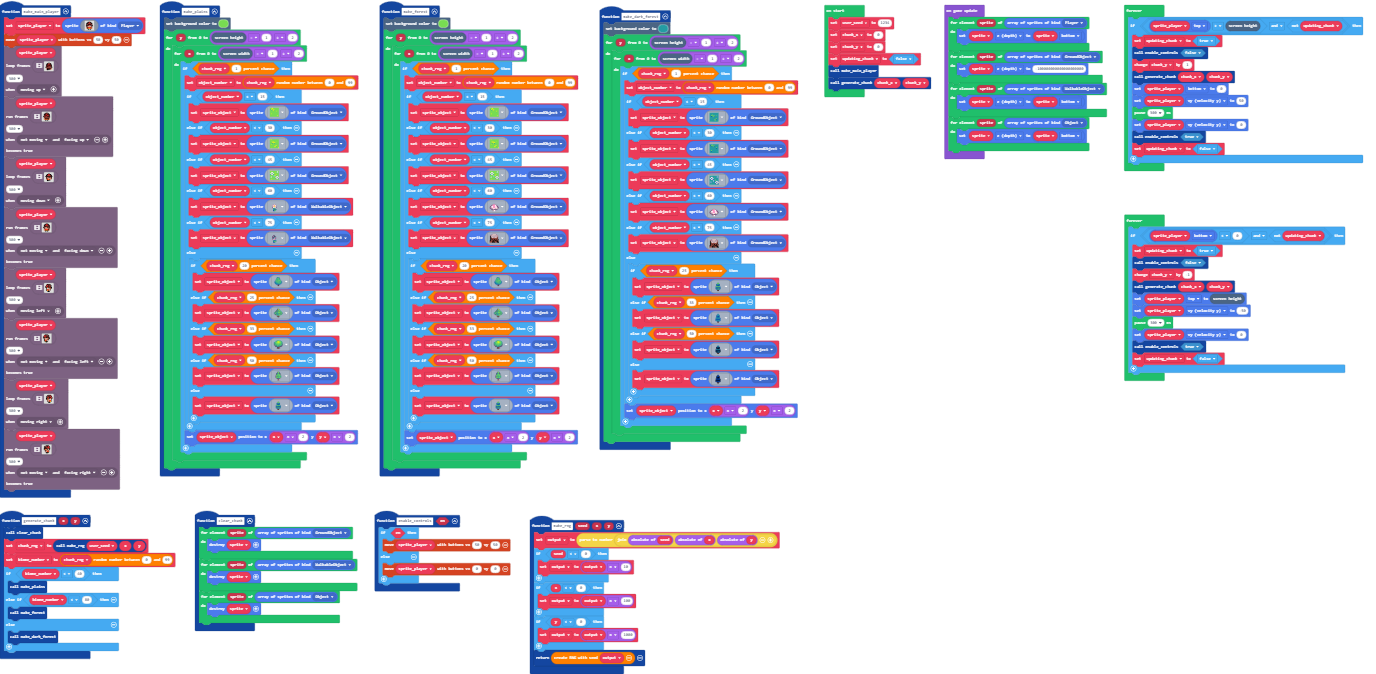
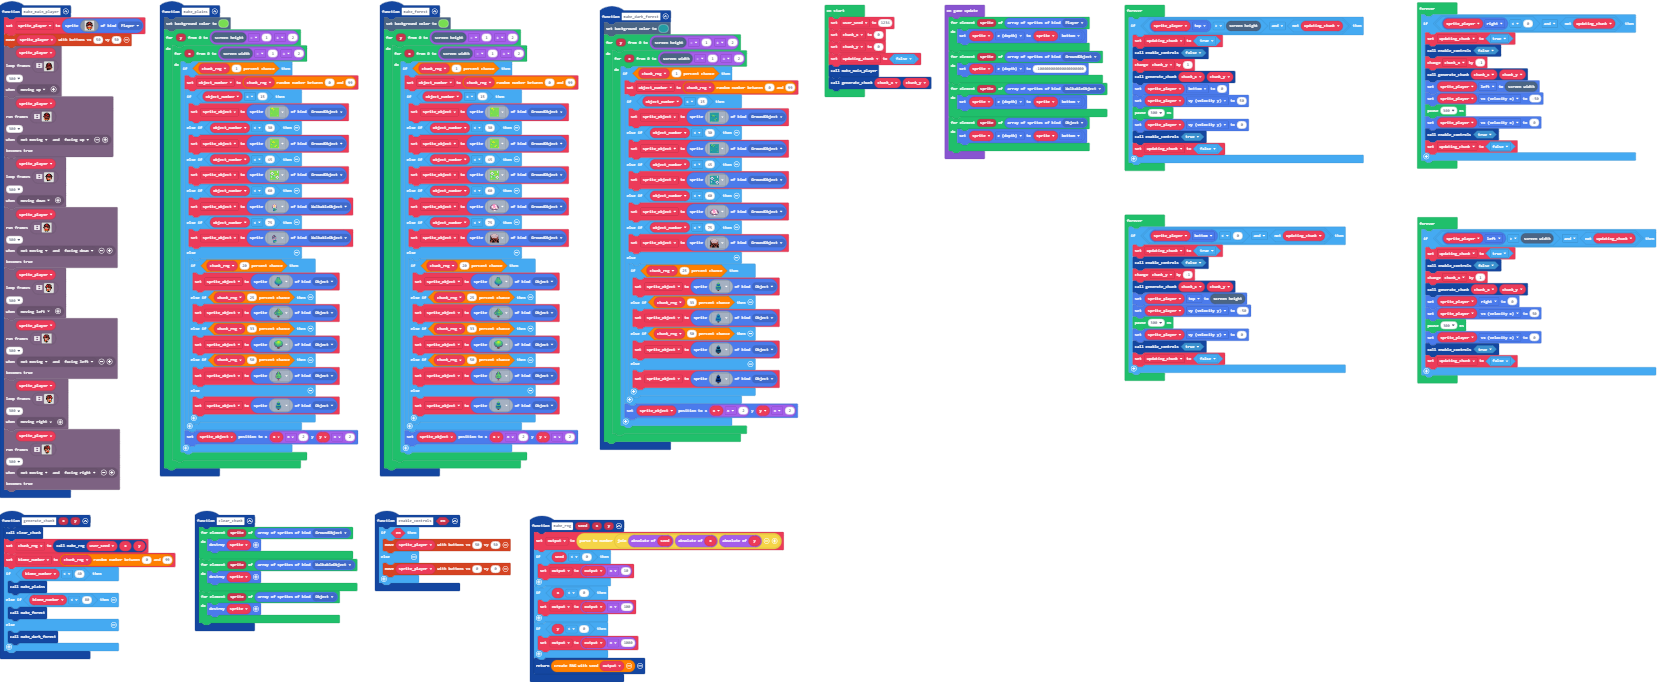
Do up and down procedural generation

diff --git a/main.ts b/main.ts
@@ -461,6 +461,20 @@ forever(function () {
     }
 })
 forever(function () {
+    if (sprite_player.right < 0 && !(updating_chunk)) {
+        updating_chunk = true
+        enable_controls(false)
+        chunk_x += -1
+        generate_chunk(chunk_x, chunk_y)
+        sprite_player.left = scene.screenWidth()
+        sprite_player.vx = -50
+        pause(300)
+        sprite_player.vx = 0
+        enable_controls(true)
+        updating_chunk = false
+    }
+})
+forever(function () {
     if (sprite_player.bottom < 0 && !(updating_chunk)) {
         updating_chunk = true
         enable_controls(false)
@@ -470,6 +484,20 @@ forever(function () {
         sprite_player.vy = -50
         pause(300)
         sprite_player.vy = 0
+        enable_controls(true)
+        updating_chunk = false
+    }
+})
+forever(function () {
+    if (sprite_player.left > scene.screenWidth() && !(updating_chunk)) {
+        updating_chunk = true
+        enable_controls(false)
+        chunk_x += 1
+        generate_chunk(chunk_x, chunk_y)
+        sprite_player.right = 0
+        sprite_player.vx = 50
+        pause(300)
+        sprite_player.vx = 0
         enable_controls(true)
         updating_chunk = false
     }
